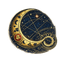
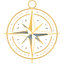
Add Celestial Atlas landing page

diff --git a/app/globals.css b/app/globals.css
@@ -2595,6 +2595,276 @@ th {
   line-height: 1.7;
 }
 
+/* Home — midnight observatory landing experience */
+.atlas-hero {
+  isolation: isolate;
+  min-height: calc(100svh - 4.7rem);
+  border-bottom-color: rgba(205, 168, 91, 0.34);
+  background:
+    linear-gradient(
+      90deg,
+      rgba(2, 8, 16, 0.97) 0%,
+      rgba(3, 11, 22, 0.79) 43%,
+      rgba(3, 9, 18, 0.18) 78%
+    ),
+    linear-gradient(180deg, rgba(4, 11, 21, 0.16) 50%, #030811 100%),
+    url("/atlas-night-sky.png") center 46% / cover no-repeat;
+  color: #f5eddb;
+}
+.atlas-hero::before {
+  position: absolute;
+  z-index: -1;
+  inset: 0;
+  background:
+    radial-gradient(
+      circle at 74% 44%,
+      transparent 0 14rem,
+      rgba(205, 168, 91, 0.06) 14.1rem,
+      transparent 14.25rem
+    ),
+    linear-gradient(180deg, transparent 62%, rgba(1, 5, 11, 0.62));
+  content: "";
+  pointer-events: none;
+}
+.atlas-hero::after {
+  display: none;
+}
+.atlas-hero__inner {
+  min-height: clamp(35rem, calc(100svh - 14rem), 52rem);
+  padding-block: clamp(4rem, 9vw, 8.5rem) clamp(3rem, 6vw, 6rem);
+  grid-template-columns: minmax(0, 0.85fr) minmax(22rem, 0.72fr);
+}
+.atlas-hero__content {
+  position: relative;
+  z-index: 2;
+  max-width: 38rem;
+  text-shadow: 0 0.2rem 1.5rem rgba(0, 0, 0, 0.56);
+}
+.atlas-hero .eyebrow {
+  display: flex;
+  align-items: center;
+  gap: 0.75rem;
+  color: #d3b46f;
+  font-size: 0.64rem;
+  letter-spacing: 0.24em;
+}
+.atlas-hero .eyebrow::before {
+  width: 2.4rem;
+  border-top: 1px solid currentColor;
+  content: "";
+}
+.atlas-hero h1 {
+  margin: 1.15rem 0 0;
+  color: #f7efdf;
+  font-size: clamp(4rem, 7.2vw, 7.2rem);
+  letter-spacing: -0.048em;
+  line-height: 0.85;
+}
+.atlas-hero h1 em {
+  display: inline-block;
+  color: #eadcc1;
+  font-weight: 400;
+}
+.atlas-hero__copy {
+  max-width: 34rem;
+  margin-top: 2rem;
+  color: #ded5c4;
+  font:
+    400 clamp(1rem, 1.5vw, 1.14rem)/1.7 Georgia,
+    "Times New Roman",
+    serif;
+}
+.atlas-hero__actions {
+  display: flex;
+  flex-wrap: wrap;
+  gap: 1rem 1.5rem;
+  align-items: center;
+  margin-top: 2rem;
+}
+.atlas-hero__cta {
+  min-width: 12.8rem;
+  border: 1px solid #e0c37c;
+  border-radius: 0.15rem;
+  background: linear-gradient(120deg, #b98b38, #dfbd70 55%, #bd8f3d);
+  box-shadow: 0 0.8rem 2.8rem rgba(0, 0, 0, 0.3);
+  color: #07101b;
+  letter-spacing: 0.12em;
+  text-align: center;
+  text-transform: uppercase;
+}
+.atlas-hero__cta:hover {
+  filter: brightness(1.08);
+  transform: translateY(-1px);
+}
+.atlas-hero__text-link {
+  padding-block: 0.75rem;
+  border-bottom: 1px solid rgba(222, 195, 129, 0.48);
+  color: #eee3cf;
+  font-size: 0.77rem;
+  letter-spacing: 0.08em;
+  text-transform: uppercase;
+}
+.atlas-hero__text-link span {
+  margin-left: 0.35rem;
+  color: #d8b86e;
+}
+.atlas-hero__privacy {
+  margin: 1.15rem 0 0;
+  color: rgba(232, 224, 209, 0.66);
+  font-size: 0.68rem;
+  letter-spacing: 0.035em;
+}
+.atlas-hero__instrument {
+  position: relative;
+  z-index: 1;
+  display: grid;
+  place-items: center;
+  width: min(39vw, 35rem);
+  aspect-ratio: 1;
+  justify-self: end;
+  filter: drop-shadow(0 1.4rem 2.2rem rgba(0, 0, 0, 0.56));
+}
+.atlas-hero__instrument img {
+  position: relative;
+  z-index: 2;
+  display: block;
+  width: 84%;
+  height: auto;
+  opacity: 0.82;
+}
+.atlas-hero__orbit {
+  position: absolute;
+  border: 1px solid rgba(218, 184, 107, 0.46);
+  border-radius: 50%;
+}
+.atlas-hero__orbit::before,
+.atlas-hero__orbit::after {
+  position: absolute;
+  inset: 8%;
+  border: 1px dashed rgba(218, 184, 107, 0.24);
+  border-radius: inherit;
+  content: "";
+}
+.atlas-hero__orbit::after {
+  inset: 18%;
+  border-style: solid;
+}
+.atlas-hero__orbit--outer {
+  inset: 0;
+  animation: atlas-orbit 70s linear infinite;
+}
+.atlas-hero__orbit--inner {
+  inset: 15%;
+  border-color: rgba(218, 184, 107, 0.25);
+  animation: atlas-orbit 48s linear infinite reverse;
+}
+.atlas-hero__features {
+  position: relative;
+  z-index: 3;
+  display: grid;
+  grid-template-columns: repeat(3, 1fr);
+  width: min(100%, 76rem);
+  margin: auto;
+  border-top: 1px solid rgba(211, 180, 111, 0.25);
+  background: linear-gradient(
+    90deg,
+    rgba(2, 7, 14, 0.8),
+    rgba(5, 14, 27, 0.72),
+    rgba(2, 7, 14, 0.8)
+  );
+  backdrop-filter: blur(10px);
+}
+.atlas-hero__features article {
+  display: flex;
+  gap: 1rem;
+  min-height: 7rem;
+  padding: 1.5rem clamp(1rem, 3vw, 2rem);
+  border-right: 1px solid rgba(211, 180, 111, 0.18);
+}
+.atlas-hero__features article:last-child {
+  border-right: 0;
+}
+.atlas-hero__features article > span {
+  color: #caa85e;
+  font:
+    1.2rem Georgia,
+    serif;
+}
+.atlas-hero__features h2 {
+  margin: 0;
+  color: #f0e5d0;
+  font:
+    400 1.05rem Georgia,
+    "Times New Roman",
+    serif;
+}
+.atlas-hero__features p {
+  margin: 0.4rem 0 0;
+  color: rgba(222, 213, 196, 0.7);
+  font-size: 0.73rem;
+  line-height: 1.5;
+}
+@keyframes atlas-orbit {
+  to {
+    transform: rotate(360deg);
+  }
+}
+@media (max-width: 900px) {
+  .atlas-hero {
+    background-position: 56% center;
+  }
+  .atlas-hero__inner {
+    grid-template-columns: minmax(0, 1fr) minmax(15rem, 0.55fr);
+  }
+  .atlas-hero__instrument {
+    width: min(42vw, 25rem);
+  }
+}
+@media (max-width: 700px) {
+  .atlas-hero {
+    background-position: 62% center;
+  }
+  .atlas-hero__inner {
+    grid-template-columns: 1fr;
+    min-height: 37rem;
+    padding-top: 4rem;
+  }
+  .atlas-hero__content {
+    max-width: 32rem;
+  }
+  .atlas-hero__instrument {
+    position: absolute;
+    z-index: 0;
+    right: -8rem;
+    top: 4rem;
+    width: 27rem;
+    opacity: 0.34;
+  }
+  .atlas-hero__features {
+    grid-template-columns: 1fr;
+    width: calc(100% - 2rem);
+  }
+  .atlas-hero__features article {
+    min-height: 0;
+    border-right: 0;
+    border-bottom: 1px solid rgba(211, 180, 111, 0.18);
+  }
+  .atlas-hero__features article:last-child {
+    border-bottom: 0;
+  }
+}
+@media (max-width: 480px) {
+  .atlas-hero h1 {
+    font-size: clamp(3.45rem, 17vw, 5rem);
+  }
+  .atlas-hero__actions {
+    display: grid;
+  }
+  .atlas-hero__privacy {
+    max-width: 19rem;
+  }
+}
+
 /* Existing utility-colour surfaces inherit the active atlas palette. */
 [data-theme="light"] .text-\[\#b9b2a3\],
 [data-theme="light"] .text-\[\#8f98a6\] {

diff --git a/components/HoroscopeApp.tsx b/components/HoroscopeApp.tsx
@@ -4,8 +4,8 @@ import { useEffect, useState } from "react";
 import { formatDegree } from "@/lib/zodiac";
 import type { NatalChart, ResolvedPlace } from "@/lib/types";
 import { NatalChartWheel } from "./NatalChartWheel";
-import { CelestialRouteMap } from "./CelestialRouteMap";
 import Link from "next/link";
+import Image from "next/image";
 
 const ZODIAC_SYMBOLS = [
   "♈",
@@ -278,27 +278,66 @@ export default function HoroscopeApp() {
       <header className="atlas-hero">
         <div className="atlas-hero__inner">
           <div className="atlas-hero__content">
-            <p className="eyebrow">Ancient sky · your private atlas</p>
+            <p className="eyebrow">Astrology for thoughtful reflection</p>
             <h1>
-              Your birth chart,
+              Navigate
               <br />
-              <em>written in the stars.</em>
+              <em>your cosmos.</em>
             </h1>
             <p className="atlas-hero__copy">
-              Discover the celestial pattern of your first moment. Celestial
-              Atlas traces the planets, signs, houses, and hidden
-              correspondences that have guided astrologers for generations.
+              Timeless symbolism. Modern guidance. Explore the sky at your first
+              moment through a private, evidence-linked atlas made for
+              reflection, not prediction.
             </p>
-            <div className="atlas-hero__method">
-              <span>01</span>
-              <p>Chart your first sky</p>
-              <span>02</span>
-              <p>Meet your celestial signatures</p>
-              <span>03</span>
-              <p>Follow the deeper pattern</p>
+            <div className="atlas-hero__actions">
+              <a className="button-primary atlas-hero__cta" href="#chart">
+                Explore your chart
+              </a>
+              <Link className="atlas-hero__text-link" href="/samples">
+                Read a sample <span aria-hidden="true">&#8599;</span>
+              </Link>
             </div>
+            <p className="atlas-hero__privacy">
+              Private by design · Birth data never appears in URLs
+            </p>
           </div>
-          <CelestialRouteMap />
+          <div className="atlas-hero__instrument" aria-hidden="true">
+            <span className="atlas-hero__orbit atlas-hero__orbit--outer" />
+            <span className="atlas-hero__orbit atlas-hero__orbit--inner" />
+            <Image
+              src="/celestial-compass.png"
+              alt=""
+              width={720}
+              height={720}
+              priority
+            />
+          </div>
+        </div>
+        <div
+          className="atlas-hero__features"
+          aria-label="Celestial Atlas principles"
+        >
+          <article>
+            <span aria-hidden="true">&#10022;</span>
+            <div>
+              <h2>Personalised charts</h2>
+              <p>Calculated for your time and place.</p>
+            </div>
+          </article>
+          <article>
+            <span aria-hidden="true">&#9788;</span>
+            <div>
+              <h2>In-depth astrology</h2>
+              <p>Placements, aspects, and houses explained.</p>
+            </div>
+          </article>
+          <article>
+            <span aria-hidden="true">&#9671;</span>
+            <div>
+              <h2>Transparent method</h2>
+              <p>Every claim connects to chart evidence.</p>
+            </div>
+          </article>
         </div>
       </header>
       <div
